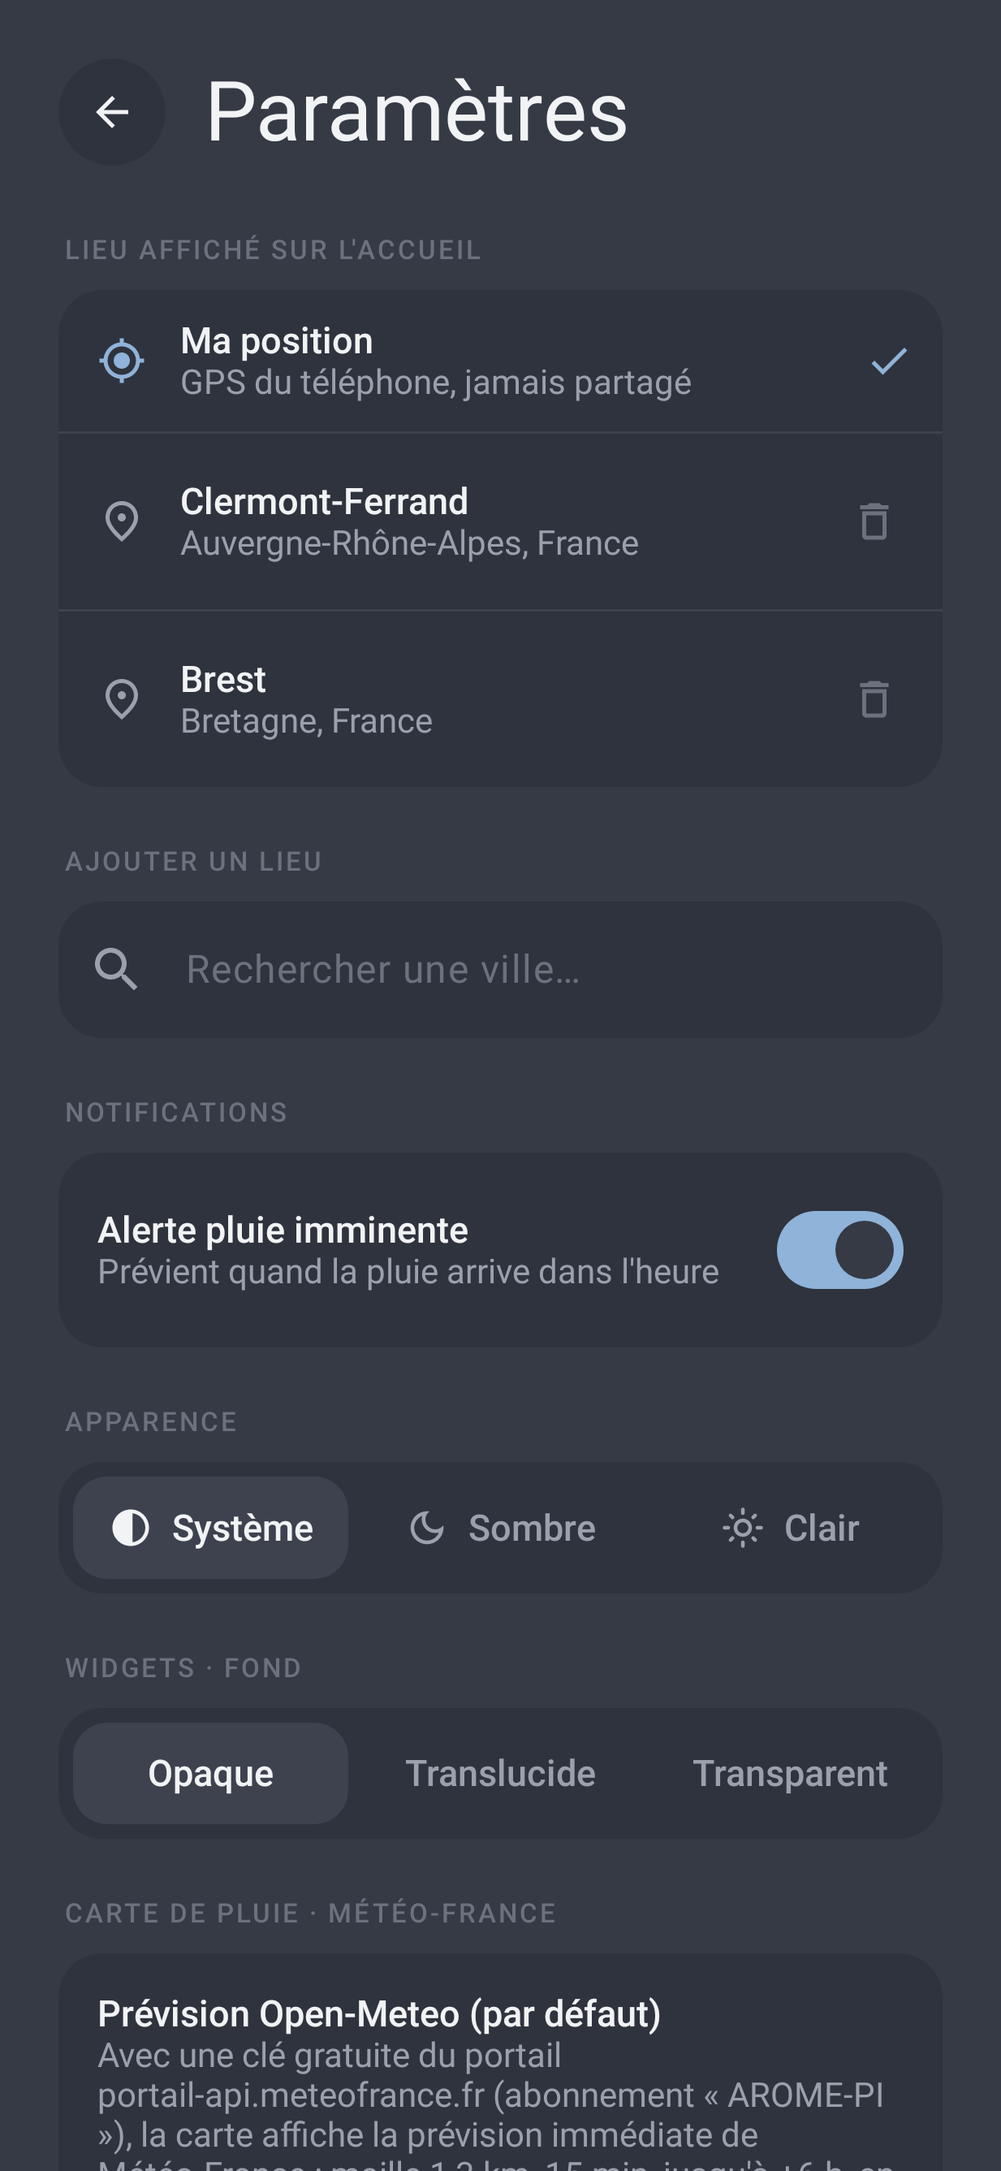
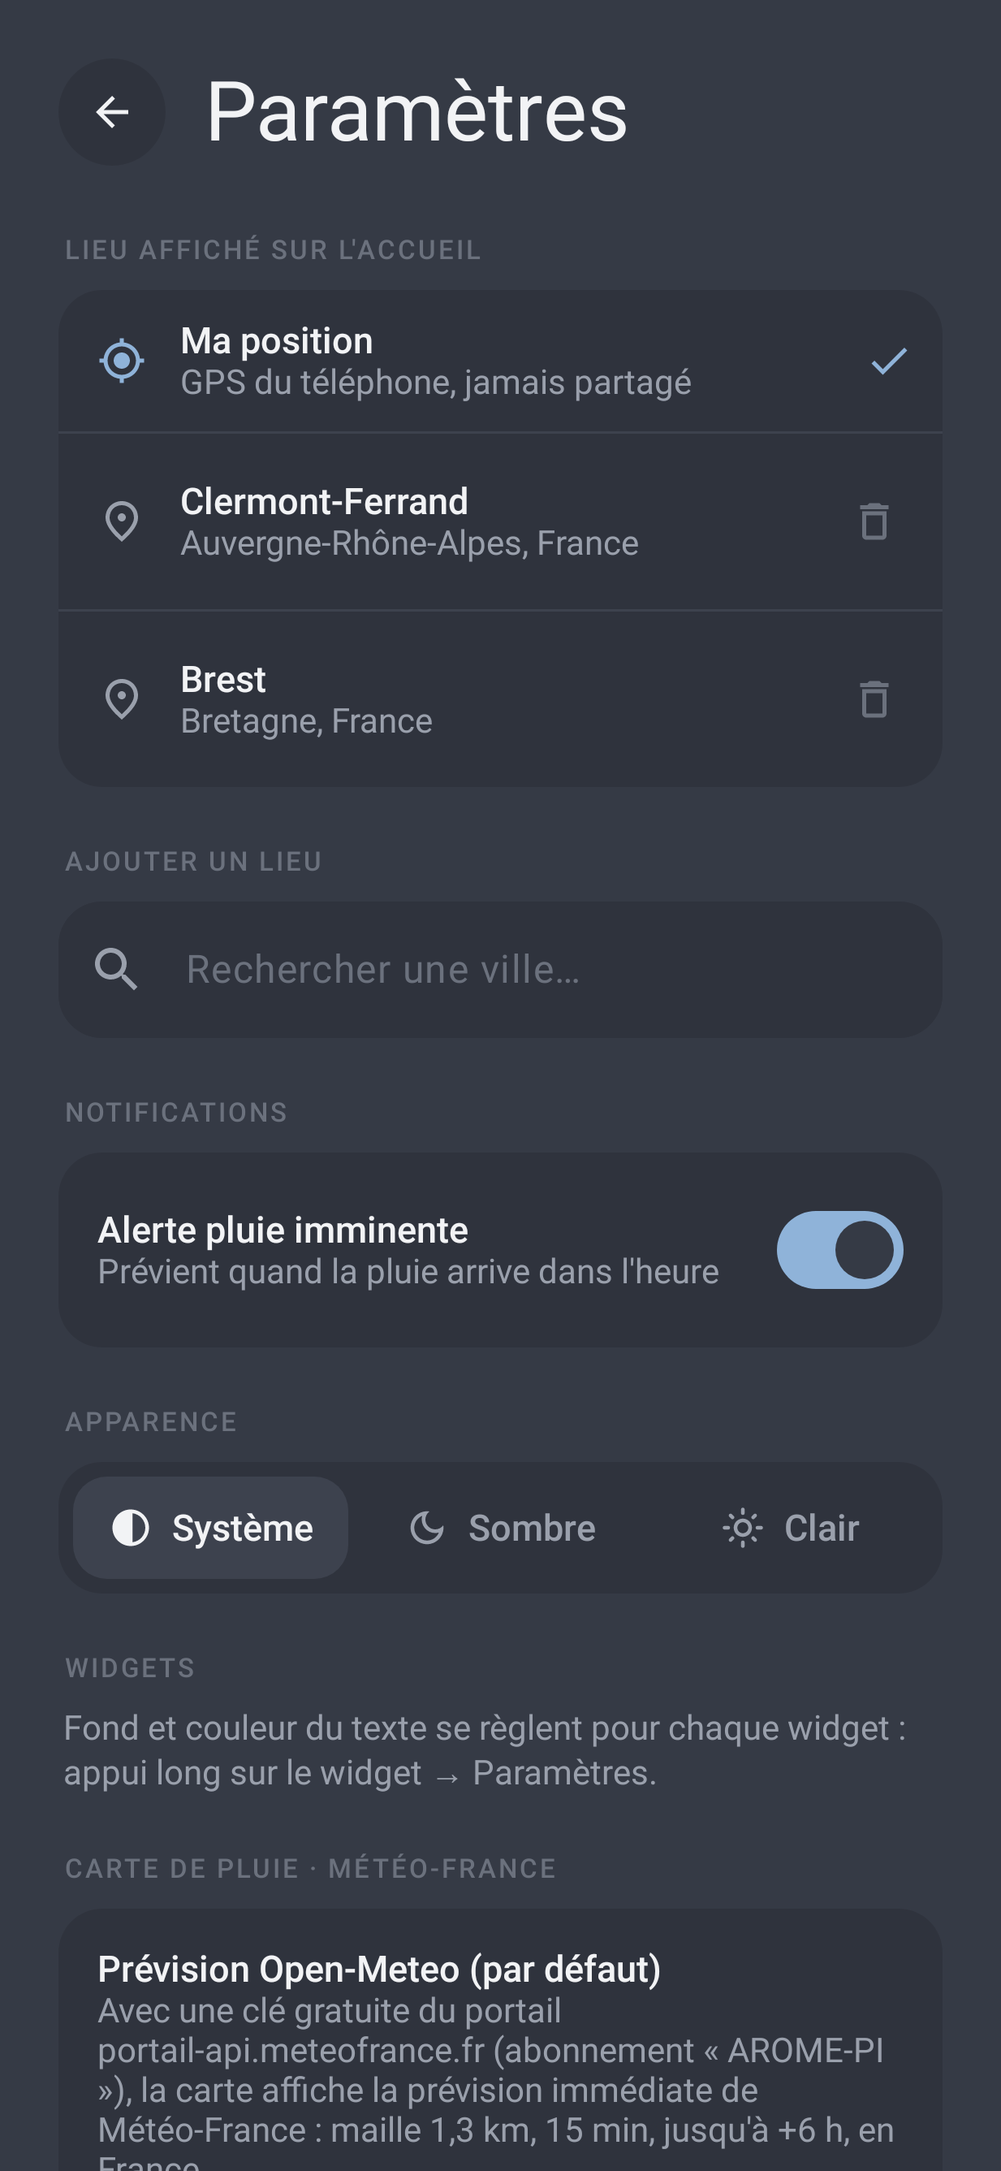
Widgets : réglages propres à chaque widget (fond, couleur du texte)
- Écran de réglage Android standard à la pose du widget (facultatif) et via appui long → Paramètres
- Fond Opaque / 70 % / 40 % / Transparent et texte Auto / Blanc / Foncé, avec aperçu
- Réglages stockés par widget (la carte reste opaque même si un autre widget est transparent)
- Le réglage global de fond est retiré des Paramètres de l'app

Claude-Session: https://claude.ai/code/session_01VhSL2CRbYz8j8n8SGyW4DJ

Changed region(s): [[0.0616, 0.7452, 0.8938, 1.0], [0.678, 0.7763, 0.8938, 0.8384]]

diff --git a/android-app/app/src/main/java/com/namm/meteo/widget/WidgetConfigActivity.kt b/android-app/app/src/main/java/com/namm/meteo/widget/WidgetConfigActivity.kt
@@ -1,0 +1,192 @@
+package com.namm.meteo.widget
+
+import android.appwidget.AppWidgetManager
+import android.content.Intent
+import android.os.Bundle
+import androidx.activity.ComponentActivity
+import androidx.activity.compose.setContent
+import androidx.activity.enableEdgeToEdge
+import androidx.compose.foundation.background
+import androidx.compose.foundation.clickable
+import androidx.compose.foundation.layout.Arrangement
+import androidx.compose.foundation.layout.Box
+import androidx.compose.foundation.layout.Column
+import androidx.compose.foundation.layout.Row
+import androidx.compose.foundation.layout.Spacer
+import androidx.compose.foundation.layout.fillMaxSize
+import androidx.compose.foundation.layout.fillMaxWidth
+import androidx.compose.foundation.layout.height
+import androidx.compose.foundation.layout.padding
+import androidx.compose.foundation.layout.safeDrawingPadding
+import androidx.compose.foundation.layout.size
+import androidx.compose.foundation.layout.width
+import androidx.compose.foundation.rememberScrollState
+import androidx.compose.foundation.shape.RoundedCornerShape
+import androidx.compose.foundation.verticalScroll
+import androidx.compose.material3.Icon
+import androidx.compose.material3.MaterialTheme
+import androidx.compose.material3.Text
+import androidx.compose.runtime.Composable
+import androidx.compose.runtime.getValue
+import androidx.compose.runtime.mutableStateOf
+import androidx.compose.runtime.remember
+import androidx.compose.runtime.rememberCoroutineScope
+import androidx.compose.runtime.setValue
+import androidx.compose.ui.Alignment
+import androidx.compose.ui.Modifier
+import androidx.compose.ui.draw.clip
+import androidx.compose.ui.graphics.Brush
+import androidx.compose.ui.graphics.Color
+import androidx.compose.ui.res.painterResource
+import androidx.compose.ui.unit.dp
+import androidx.compose.ui.unit.sp
+import androidx.lifecycle.compose.collectAsStateWithLifecycle
+import com.namm.meteo.MeteoApp
+import com.namm.meteo.R
+import com.namm.meteo.ui.components.SectionLabel
+import com.namm.meteo.ui.components.TileShape
+import com.namm.meteo.ui.theme.LocalSlate
+import com.namm.meteo.ui.theme.MeteoTheme
+import com.namm.meteo.ui.theme.Slate
+import com.namm.meteo.ui.theme.ThemeMode
+import kotlinx.coroutines.launch
+
+/**
+ * Réglages d'UN widget (fond, couleur du texte). Ouvert par Android à la pose du widget
+ * (facultatif) et via appui long → « Paramètres » (widget reconfigurable).
+ */
+class WidgetConfigActivity : ComponentActivity() {
+
+    override fun onCreate(savedInstanceState: Bundle?) {
+        super.onCreate(savedInstanceState)
+        enableEdgeToEdge()
+        val appWidgetId = intent?.extras?.getInt(AppWidgetManager.EXTRA_APPWIDGET_ID, AppWidgetManager.INVALID_APPWIDGET_ID)
+            ?: AppWidgetManager.INVALID_APPWIDGET_ID
+        if (appWidgetId == AppWidgetManager.INVALID_APPWIDGET_ID) {
+            finish()
+            return
+        }
+        // Si l'utilisateur quitte sans valider : réglages par défaut (widget conservé).
+        setResult(RESULT_OK, Intent().putExtra(AppWidgetManager.EXTRA_APPWIDGET_ID, appWidgetId))
+        val app = application as MeteoApp
+        val initial = WidgetConfigStore.read(this, appWidgetId)
+        val isMap = AppWidgetManager.getInstance(this).getAppWidgetInfo(appWidgetId)
+            ?.provider?.className?.endsWith("MapWidgetReceiver") == true
+
+        setContent {
+            val settings by app.settings.settings.collectAsStateWithLifecycle(initialValue = null)
+            val scope = rememberCoroutineScope()
+            MeteoTheme(settings?.theme ?: ThemeMode.SYSTEM) {
+                WidgetConfigContent(
+                    initial = initial,
+                    isMap = isMap,
+                    onSave = { style ->
+                        WidgetConfigStore.write(this, appWidgetId, style)
+                        scope.launch {
+                            Widgets.updateAll(applicationContext)
+                            finish()
+                        }
+                    },
+                )
+            }
+        }
+    }
+}
+
+@Composable
+fun WidgetConfigContent(initial: WidgetStyle, isMap: Boolean, onSave: (WidgetStyle) -> Unit) {
+    var opacity by remember { mutableStateOf(initial.opacity) }
+    var text by remember { mutableStateOf(initial.text) }
+    Column(
+        Modifier.fillMaxSize().background(Slate.Background).safeDrawingPadding()
+            .verticalScroll(rememberScrollState()).padding(24.dp),
+    ) {
+        Text("Réglages du widget", style = MaterialTheme.typography.headlineLarge, color = Slate.Primary)
+        Spacer(Modifier.height(6.dp))
+        Text(
+            "Propres à ce widget uniquement. Modifiables plus tard par un appui long sur le widget.",
+            color = Slate.Secondary,
+            style = MaterialTheme.typography.bodyMedium,
+        )
+
+        Spacer(Modifier.height(24.dp))
+        SectionLabel("APERÇU")
+        Preview(WidgetStyle(opacity, text), isMap)
+
+        Spacer(Modifier.height(24.dp))
+        SectionLabel("FOND")
+        Choice(WidgetOpacity.entries, opacity, { it.label }) { opacity = it }
+
+        Spacer(Modifier.height(20.dp))
+        SectionLabel("TEXTE ET ICÔNES")
+        Choice(WidgetTextColor.entries, text, { it.label }) { text = it }
+
+        Spacer(Modifier.height(32.dp))
+        Box(
+            Modifier.fillMaxWidth().clip(RoundedCornerShape(50)).background(Slate.Primary)
+                .clickable { onSave(WidgetStyle(opacity, text)) }.padding(vertical = 16.dp),
+            contentAlignment = Alignment.Center,
+        ) {
+            Text("Valider", color = Slate.Background, style = MaterialTheme.typography.titleMedium)
+        }
+    }
+}
+
+/** Aperçu du widget sur un faux fond d'écran (dégradé), avec les mêmes couleurs que le vrai. */
+@Composable
+private fun Preview(style: WidgetStyle, isMap: Boolean) {
+    val palette = LocalSlate.current
+    val colors = WidgetColors(palette, style)
+    val text = when (style.text) {
+        WidgetTextColor.AUTO -> Triple(palette.primary, palette.secondary, palette.muted)
+        WidgetTextColor.LIGHT -> WidgetTextPalettes.light
+        WidgetTextColor.DARK -> WidgetTextPalettes.dark
+    }
+    Box(
+        Modifier.fillMaxWidth().height(150.dp).clip(TileShape)
+            .background(Brush.linearGradient(listOf(Color(0xFFE7B47C), Color(0xFF6D8FB5), Color(0xFF2E4A3B)))),
+        contentAlignment = Alignment.Center,
+    ) {
+        Row(
+            Modifier.padding(16.dp).clip(RoundedCornerShape(22.dp)).background(colors.background)
+                .padding(horizontal = 18.dp, vertical = 14.dp),
+            verticalAlignment = Alignment.CenterVertically,
+        ) {
+            Icon(
+                painterResource(if (isMap) R.drawable.ic_w_drop else R.drawable.ic_w_rain), null,
+                tint = text.first, modifier = Modifier.size(34.dp),
+            )
+            Spacer(Modifier.width(12.dp))
+            Column {
+                Text(if (isMap) "Carte de pluie" else "15°", color = text.first, fontSize = if (isMap) 18.sp else 30.sp)
+                Text("Clermont-Ferrand", color = text.second, fontSize = 13.sp)
+                Text("Pluie dans 20 min", color = colors.rainColor, fontSize = 12.sp)
+            }
+        }
+    }
+}
+
+@Composable
+private fun <T> Choice(options: List<T>, selected: T, label: (T) -> String, onSelect: (T) -> Unit) {
+    Row(
+        Modifier.fillMaxWidth().clip(TileShape).background(Slate.Tile).padding(6.dp),
+        horizontalArrangement = Arrangement.spacedBy(6.dp),
+    ) {
+        options.forEach { option ->
+            val isSelected = option == selected
+            Box(
+                Modifier.weight(1f).clip(RoundedCornerShape(14.dp))
+                    .background(if (isSelected) Slate.TileHighlight else Slate.Tile)
+                    .clickable { onSelect(option) }.padding(vertical = 12.dp),
+                contentAlignment = Alignment.Center,
+            ) {
+                Text(
+                    label(option),
+                    color = if (isSelected) Slate.Primary else Slate.Secondary,
+                    style = MaterialTheme.typography.titleMedium,
+                    maxLines = 1,
+                )
+            }
+        }
+    }
+}

diff --git a/android-app/app/src/main/java/com/namm/meteo/widget/Widgets.kt b/android-app/app/src/main/java/com/namm/meteo/widget/Widgets.kt
@@ -42,7 +42,9 @@ abstract class MeteoWidget(private val kind: WidgetKind) : GlanceAppWidget() {
             ThemeMode.SYSTEM -> (context.resources.configuration.uiMode and Configuration.UI_MODE_NIGHT_MASK) ==
                 Configuration.UI_MODE_NIGHT_YES
         }
-        val colors = WidgetColors(if (dark) DarkSlate else LightSlate, settings.widgetBackground.alpha)
+        // Réglages propres à CE widget (fond, couleur du texte).
+        val style = WidgetConfigStore.read(context, GlanceAppWidgetManager(context).getAppWidgetId(id))
+        val colors = WidgetColors(if (dark) DarkSlate else LightSlate, style)
         val map = if (kind == WidgetKind.MAP) WidgetMapStore.read(context) else null
         val open = openAction(context, kind)
         provideContent {
@@ -66,12 +68,20 @@ class DayWidget : MeteoWidget(WidgetKind.DAY)
 class WeekWidget : MeteoWidget(WidgetKind.WEEK)
 class MapWidget : MeteoWidget(WidgetKind.MAP)
 
-class MiniWidgetReceiver : GlanceAppWidgetReceiver() { override val glanceAppWidget = MiniWidget() }
-class RainWidgetReceiver : GlanceAppWidgetReceiver() { override val glanceAppWidget = RainWidget() }
-class DayWidgetReceiver : GlanceAppWidgetReceiver() { override val glanceAppWidget = DayWidget() }
-class WeekWidgetReceiver : GlanceAppWidgetReceiver() { override val glanceAppWidget = WeekWidget() }
+/** Supprime les réglages d'un widget retiré de l'écran d'accueil. */
+abstract class MeteoWidgetReceiver : GlanceAppWidgetReceiver() {
+    override fun onDeleted(context: Context, appWidgetIds: IntArray) {
+        super.onDeleted(context, appWidgetIds)
+        WidgetConfigStore.delete(context, appWidgetIds)
+    }
+}
 
-class MapWidgetReceiver : GlanceAppWidgetReceiver() {
+class MiniWidgetReceiver : MeteoWidgetReceiver() { override val glanceAppWidget = MiniWidget() }
+class RainWidgetReceiver : MeteoWidgetReceiver() { override val glanceAppWidget = RainWidget() }
+class DayWidgetReceiver : MeteoWidgetReceiver() { override val glanceAppWidget = DayWidget() }
+class WeekWidgetReceiver : MeteoWidgetReceiver() { override val glanceAppWidget = WeekWidget() }
+
+class MapWidgetReceiver : MeteoWidgetReceiver() {
     override val glanceAppWidget = MapWidget()
 
     override fun onEnabled(context: Context) {

diff --git a/android-app/app/src/main/java/com/namm/meteo/widget/WidgetConfig.kt b/android-app/app/src/main/java/com/namm/meteo/widget/WidgetConfig.kt
@@ -1,0 +1,56 @@
+package com.namm.meteo.widget
+
+import android.content.Context
+import androidx.compose.ui.graphics.Color
+
+/** Opacité du fond d'un widget. */
+enum class WidgetOpacity(val label: String, val alpha: Float) {
+    OPAQUE("Opaque", 1f),
+    HIGH("70 %", 0.7f),
+    LOW("40 %", 0.4f),
+    TRANSPARENT("Transparent", 0f),
+}
+
+/** Couleur du texte et des icônes d'un widget. */
+enum class WidgetTextColor(val label: String) { AUTO("Auto"), LIGHT("Blanc"), DARK("Foncé") }
+
+data class WidgetStyle(
+    val opacity: WidgetOpacity = WidgetOpacity.OPAQUE,
+    val text: WidgetTextColor = WidgetTextColor.AUTO,
+)
+
+/** Réglages propres à chaque widget posé (clé = appWidgetId Android). */
+object WidgetConfigStore {
+    private fun prefs(context: Context) = context.getSharedPreferences("widget_config", Context.MODE_PRIVATE)
+
+    fun read(context: Context, appWidgetId: Int): WidgetStyle {
+        val p = prefs(context)
+        return WidgetStyle(
+            opacity = p.getString("opacity_$appWidgetId", null)?.let { runCatching { WidgetOpacity.valueOf(it) }.getOrNull() }
+                ?: WidgetOpacity.OPAQUE,
+            text = p.getString("text_$appWidgetId", null)?.let { runCatching { WidgetTextColor.valueOf(it) }.getOrNull() }
+                ?: WidgetTextColor.AUTO,
+        )
+    }
+
+    fun write(context: Context, appWidgetId: Int, style: WidgetStyle) {
+        prefs(context).edit()
+            .putString("opacity_$appWidgetId", style.opacity.name)
+            .putString("text_$appWidgetId", style.text.name)
+            .apply()
+    }
+
+    fun delete(context: Context, appWidgetIds: IntArray) {
+        val e = prefs(context).edit()
+        appWidgetIds.forEach { e.remove("opacity_$it").remove("text_$it") }
+        e.apply()
+    }
+}
+
+/** Texte clair ou foncé imposé (sinon : couleurs du thème). */
+internal object WidgetTextPalettes {
+    val light = Triple(Color(0xFFFFFFFF), Color(0xE6FFFFFF), Color(0xB3FFFFFF))
+    val dark = Triple(Color(0xFF2B2F38), Color(0xFF4A505C), Color(0xFF6E7480))
+    val lightRain = Color(0xFFA9C8EC)
+    val darkRain = Color(0xFF2F6DB5)
+}

diff --git a/android-app/app/src/main/java/com/namm/meteo/widget/WidgetContent.kt b/android-app/app/src/main/java/com/namm/meteo/widget/WidgetContent.kt
@@ -40,15 +40,24 @@ import java.util.Locale
 import kotlin.math.roundToInt
 
 /** Couleurs d'un widget, issues de la palette ardoise (sombre ou claire). */
-class WidgetColors(p: SlatePalette, backgroundAlpha: Float = 1f) {
-    val background = p.background.copy(alpha = backgroundAlpha)
+class WidgetColors(p: SlatePalette, style: WidgetStyle = WidgetStyle()) {
+    private val text = when (style.text) {
+        WidgetTextColor.AUTO -> Triple(p.primary, p.secondary, p.muted)
+        WidgetTextColor.LIGHT -> WidgetTextPalettes.light
+        WidgetTextColor.DARK -> WidgetTextPalettes.dark
+    }
+    val background = p.background.copy(alpha = style.opacity.alpha)
     val tile = p.tile
-    val primary = ColorProvider(p.primary)
-    val secondary = ColorProvider(p.secondary)
-    val muted = ColorProvider(p.muted)
-    val rain = ColorProvider(p.rain)
-    val rainColor = p.rain
-    val track = p.tileHighlight
+    val primary = ColorProvider(text.first)
+    val secondary = ColorProvider(text.second)
+    val muted = ColorProvider(text.third)
+    val rainColor = when (style.text) {
+        WidgetTextColor.AUTO -> p.rain
+        WidgetTextColor.LIGHT -> WidgetTextPalettes.lightRain
+        WidgetTextColor.DARK -> WidgetTextPalettes.darkRain
+    }
+    val rain = ColorProvider(rainColor)
+    val track = if (style.opacity == WidgetOpacity.OPAQUE) p.tileHighlight else text.third.copy(alpha = 0.35f)
 }
 
 fun WeatherCondition.widgetIcon(): Int = when (this) {

diff --git a/android-app/app/src/main/java/com/namm/meteo/ui/settings/SettingsScreen.kt b/android-app/app/src/main/java/com/namm/meteo/ui/settings/SettingsScreen.kt
@@ -108,7 +108,6 @@ fun SettingsScreen(viewModel: SettingsViewModel, onBack: () -> Unit) {
         onSaveAromeKey = { viewModel.testAndSaveAromeKey(it) },
         onRemoveAromeKey = { viewModel.removeAromeKey() },
         onTheme = viewModel::setTheme,
-        onWidgetBackground = viewModel::setWidgetBackground,
     )
 }
 
@@ -130,7 +129,6 @@ fun SettingsContent(
     onSaveAromeKey: (String) -> Unit = {},
     onRemoveAromeKey: () -> Unit = {},
     onTheme: (ThemeMode) -> Unit = {},
-    onWidgetBackground: (WidgetBackground) -> Unit = {},
 ) {
     Column(
         Modifier
@@ -218,12 +216,12 @@ fun SettingsContent(
         ThemeSelector(settings.theme, onTheme)
 
         Spacer(Modifier.height(24.dp))
-        SectionLabel("WIDGETS · FOND")
-        Segmented(
-            options = WidgetBackground.entries,
-            selected = settings.widgetBackground,
-            label = { it.label },
-            onSelect = onWidgetBackground,
+        SectionLabel("WIDGETS")
+        Text(
+            "Fond et couleur du texte se règlent pour chaque widget : appui long sur le widget → Paramètres.",
+            color = Slate.Secondary,
+            style = MaterialTheme.typography.bodyMedium,
+            modifier = Modifier.padding(horizontal = 2.dp),
         )
 
         Spacer(Modifier.height(24.dp))

diff --git a/android-app/app/src/test/java/com/namm/meteo/ui/WidgetScreenshotTest.kt b/android-app/app/src/test/java/com/namm/meteo/ui/WidgetScreenshotTest.kt
@@ -71,8 +71,11 @@ class WidgetScreenshotTest {
         capture("widget_mini", 160, 80) { WidgetFrame(dark, open) { MiniContent(data, dark) } }
         capture("widget_pluie", 340, 80) { WidgetFrame(dark, open) { RainContent(data, dark) } }
         capture("widget_journee", 340, 170) { WidgetFrame(dark, open) { DayContent(data, dark) } }
-        val translucent = WidgetColors(DarkSlate, com.namm.meteo.data.local.WidgetBackground.TRANSLUCENT.alpha)
-        capture("widget_journee_transparent", 340, 170) { WidgetFrame(translucent, open) { DayContent(data, translucent) } }
+        val transparent = WidgetColors(
+            DarkSlate,
+            com.namm.meteo.widget.WidgetStyle(com.namm.meteo.widget.WidgetOpacity.TRANSPARENT, com.namm.meteo.widget.WidgetTextColor.LIGHT),
+        )
+        capture("widget_journee_transparent", 340, 170) { WidgetFrame(transparent, open) { DayContent(data, transparent) } }
         capture("widget_semaine", 340, 250) { WidgetFrame(light, open) { WeekContent(data, light) } }
         val map = Fixtures.rainMap()
         val frame = map.frames.filterIsInstance<MapFrame.Forecast>()[3]

diff --git a/android-app/app/src/test/java/com/namm/meteo/ui/ScreenshotTest.kt b/android-app/app/src/test/java/com/namm/meteo/ui/ScreenshotTest.kt
@@ -119,6 +119,15 @@ class ScreenshotTest {
     }
 
     @Test
+    fun reglagesWidget() = capture("widget_reglages") {
+        com.namm.meteo.widget.WidgetConfigContent(
+            initial = com.namm.meteo.widget.WidgetStyle(com.namm.meteo.widget.WidgetOpacity.LOW, com.namm.meteo.widget.WidgetTextColor.LIGHT),
+            isMap = false,
+            onSave = {},
+        )
+    }
+
+    @Test
     fun carte() = capture("carte") {
         val map = Fixtures.rainMap()
         MapContent(MapUiState.Ready(Fixtures.paris, map, map.nowIndex + 3, loadedAt = 1_792_180_800_000L), online = false)

diff --git a/CLAUDE.md b/CLAUDE.md
@@ -58,7 +58,7 @@ echo "robolectricRepo=https://maven-central.storage-download.googleapis.com/mave
 - Tests : fixtures dans `app/src/test/resources/` (`forecast.json`, `geocoding.json` réelles — bloc `hourly` de `forecast.json` complété ; `grid.json` au format multi-points) ; tout nouvel écran a un test Roborazzi (`ScreenshotTest`, application neutre `android.app.Application` pour éviter WorkManager).
 - Accueil = position GPS par défaut ; lieux préenregistrés gérés dans Paramètres (`SettingsStore`). La carte utilise le même lieu que l'accueil.
 - Carte : Open-Meteo par défaut ; AROME-PI (Météo-France) si une clé est enregistrée dans Paramètres. Aucune clé dans le code ni le dépôt.
-- Widgets (Glance, `widget/`) : Mini 2×1, Pluie 4×1, Journée 4×2, Semaine 4×3, Carte de pluie 4×3 (image ≈ 50 km au format réel du widget, dessinée par `WidgetMapRenderer` dans `RefreshWorker` toutes les 15 min). Rendus testés dans `WidgetScreenshotTest` (GlanceRemoteViews → PNG). Fond Opaque/Translucide/Transparent réglable dans Paramètres. Une ligne Glance accepte au plus 10 enfants. Les classes de widgets sont protégées de la fusion R8 (`proguard-rules.pro`, vérifié en CI) : les tests tournent en debug, non minifié, et ne voient pas ce genre de bug.
+- Widgets (Glance, `widget/`) : Mini 2×1, Pluie 4×1, Journée 4×2, Semaine 4×3, Carte de pluie 4×3 (image ≈ 50 km au format réel du widget, dessinée par `WidgetMapRenderer` dans `RefreshWorker` toutes les 15 min). Rendus testés dans `WidgetScreenshotTest` (GlanceRemoteViews → PNG). Réglages propres à chaque widget (fond Opaque/70 %/40 %/Transparent, texte Auto/Blanc/Foncé) via `WidgetConfigActivity` (pose du widget ou appui long → Paramètres), stockés par appWidgetId dans `WidgetConfigStore`. Une ligne Glance accepte au plus 10 enfants. Les classes de widgets sont protégées de la fusion R8 (`proguard-rules.pro`, vérifié en CI) : les tests tournent en debug, non minifié, et ne voient pas ce genre de bug.
 - Navigation : barre flottante en bas de l'accueil (carte de pluie, paramètres) ; actualisation de l'accueil en tirant vers le bas.
 
 ## Release & signature
